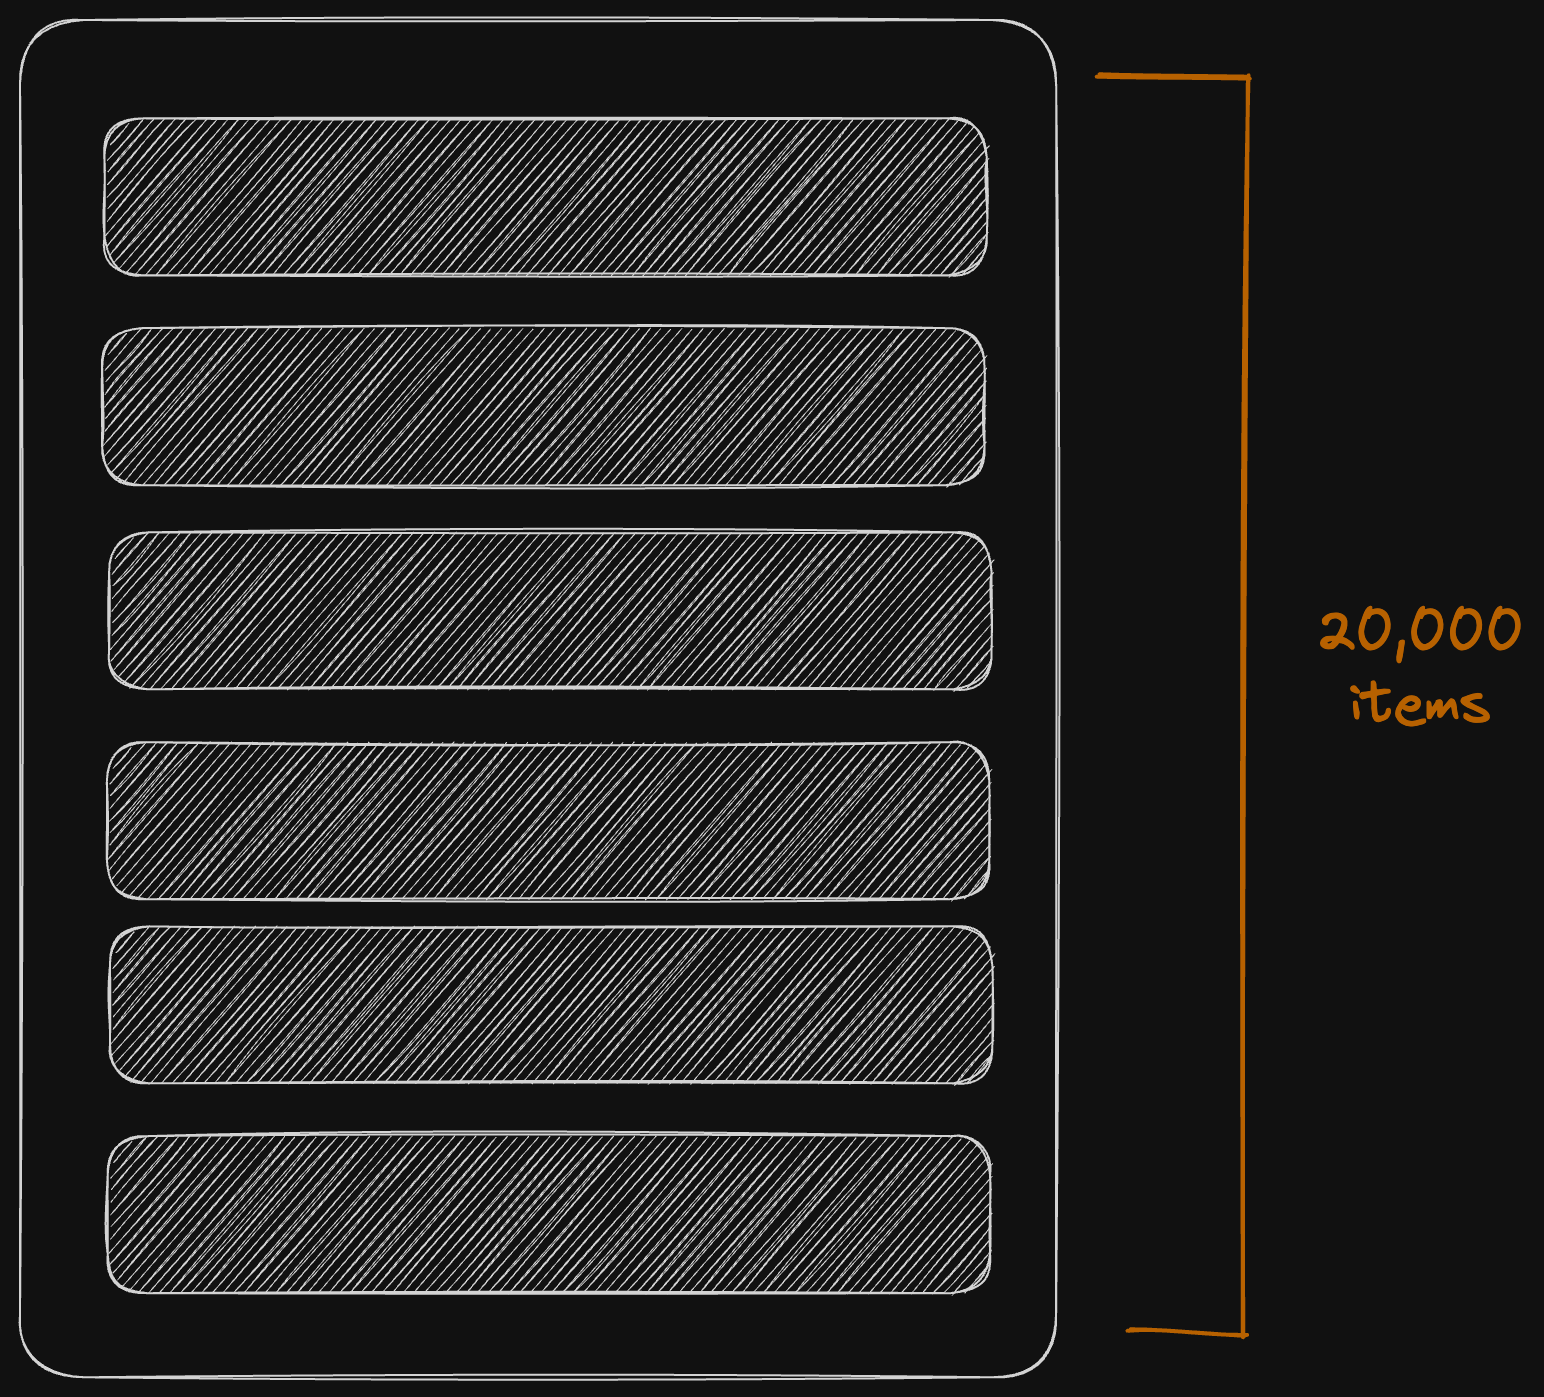
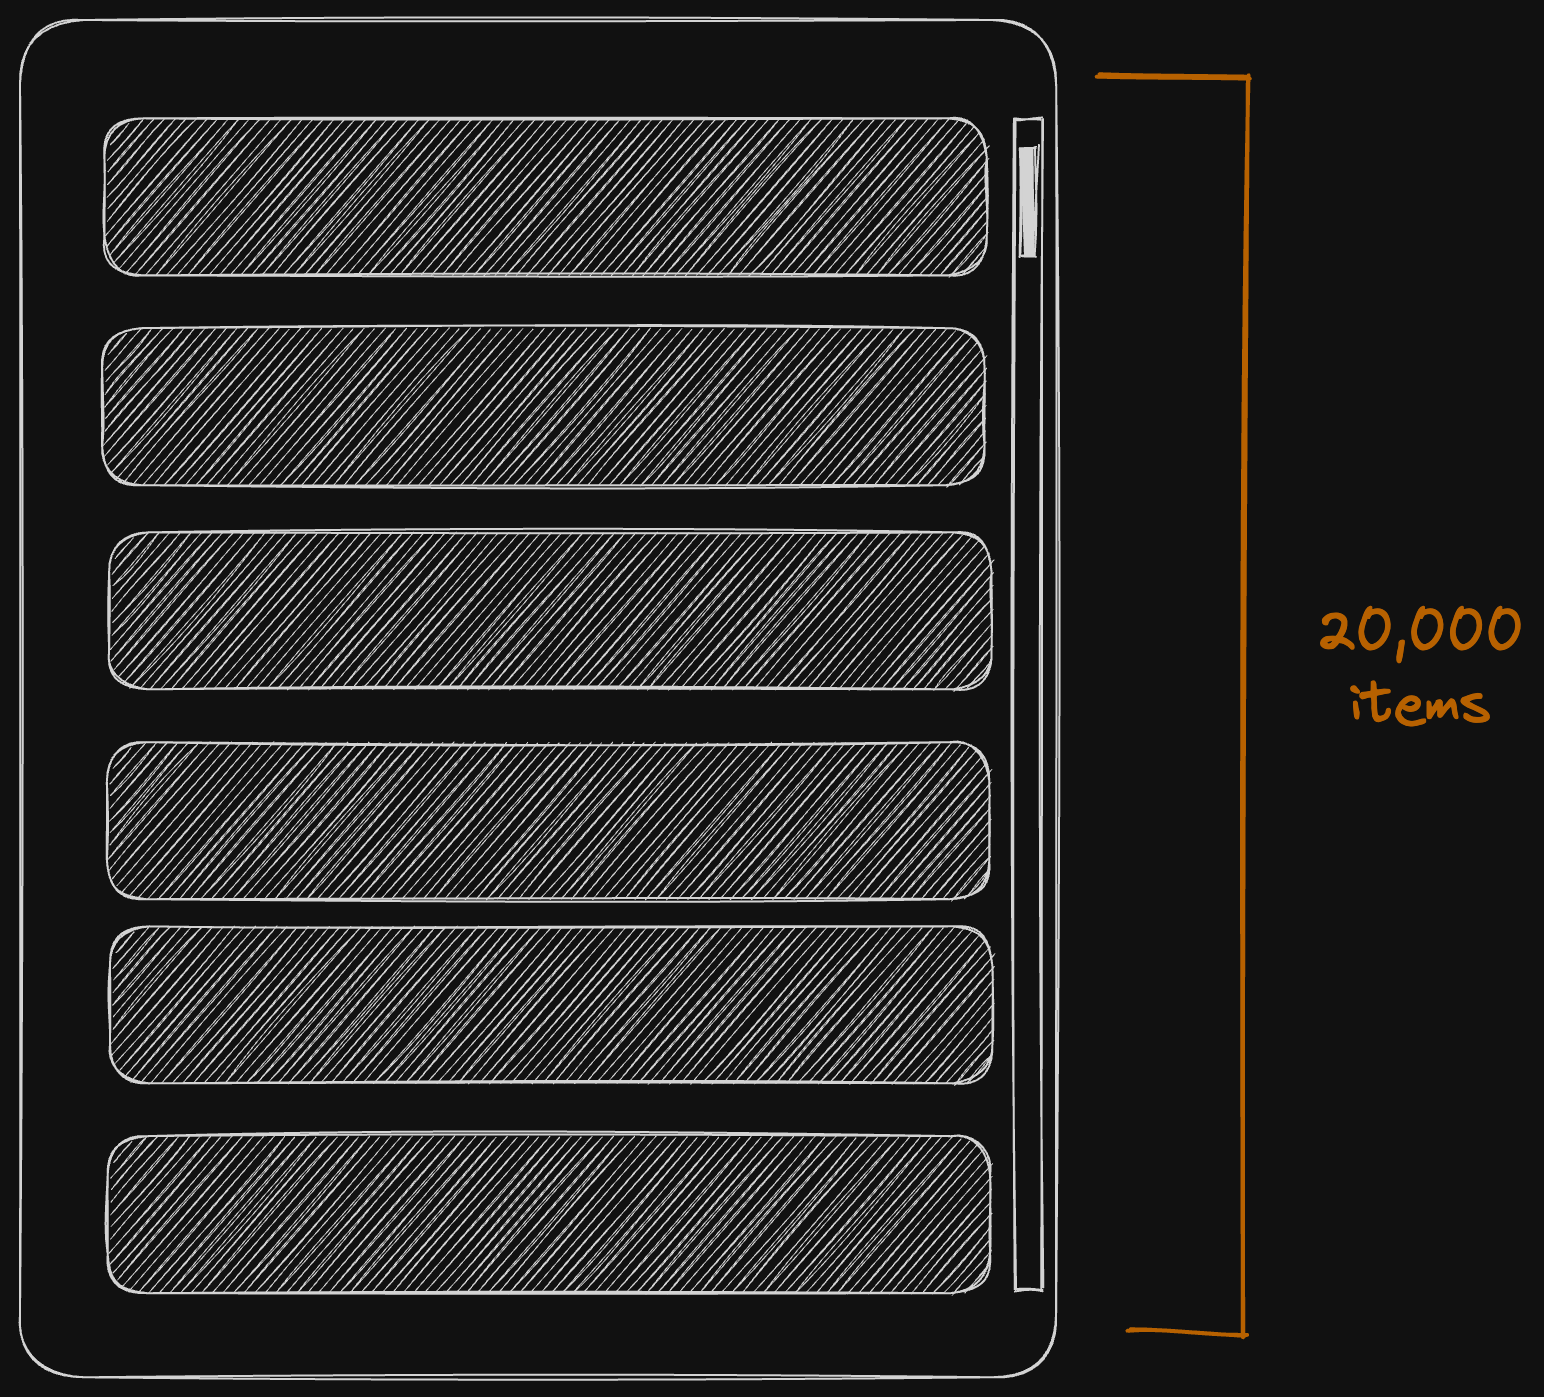
Updates

Changed region(s): [[0.6528, 0.0923, 0.6839, 0.9234]]

diff --git a/talks/slides-markdown/optimizing-angular-apps-like-a-pro/main.md b/talks/slides-markdown/optimizing-angular-apps-like-a-pro/main.md
@@ -395,16 +395,35 @@
 
 ;VS;
 
+##### There is a lot being handled by the DOM
+
+![lots-of-comps](assets/images/ng-perf/lots-of-comps.png) <!-- .element: style="height: 500px; object-fit: contain;" -->
+
+;VS;
+
 ![vscroll2](assets/images/ng-perf/v-scroll-2.png) <!-- .element: style="height: 650px; object-fit: contain;" -->
+
+;VS;
+
+## Can we do better?
+
+;VS;
+
+# Virtual Scroll
+
+;VS;
+
+![vscroll6](assets/images/ng-perf/v-scroll-6.png) <!-- .element: style="height: 650px; object-fit: contain;" -->
+
+
+;VS;
+
+![vscroll4](assets/images/ng-perf/v-scroll-4.png) <!-- .element: style="height: 500px; object-fit: contain;" -->
 
 ;VS;
 
 ![vscroll3](assets/images/ng-perf/v-scroll-3.png) <!-- .element: style="height: 500px; object-fit: contain;" -->
 ###### Profiled using [Angular DevTools](https://chrome.google.com/webstore/detail/angular-devtools/ienfalfjdbdpebioblfackkekamfmbnh)
-
-;VS;
-
-![vscroll4](assets/images/ng-perf/v-scroll-4.png) <!-- .element: style="height: 500px; object-fit: contain;" -->
 
 ;VS;
 
@@ -421,11 +440,13 @@ Notes:
 
 ## All of this...basically...
 
-![too-fast](https://media4.giphy.com/media/Gpu3skdN58ApO/giphy.gif?cid=ecf05e475671sc3siwhg3kf9t3fa9ke1rfmtof1dsw7slvao&ep=v1_gifs_search&rid=giphy.gif&ct=g) <!-- .element: class="fragment" style="height: 500px; object-fit: contain;" -->
+![too-fast](https://media4.giphy.com/media/Gpu3skdN58ApO/giphy.gif?cid=ecf05e475671sc3siwhg3kf9t3fa9ke1rfmtof1dsw7slvao&ep=v1_gifs_search&rid=giphy.gif&ct=g) <!-- .element: class="fragment" style="height: 500px; object-fit: contain;" data-fragment-index="1" -->
+
+##### Makes your app FAST <!-- .element: class="fragment" data-fragment-index="1" -->
 
 ;HS;
 
-# Shameless Promotion
+# Shameless Plug
 
 ![Angular Cookbook](assets/images/ng-cb-w-stats.png) <!-- .element: style="height: 500px;" class="fragment" -->
 

diff --git a/talks/slides-markdown/optimizing-angular-apps-like-a-pro/hook.md b/talks/slides-markdown/optimizing-angular-apps-like-a-pro/hook.md
@@ -1,5 +1,5 @@
 ### Imagine Managing an app with 80+ components
-![80 projects](assets/images/angular-perf-opt/components.png) <!-- .element: style="height: 500px;" -->
+![80 projects](assets/images/ng-perf/components.png) <!-- .element: style="height: 500px;" -->
 
 Notes:
 

diff --git a/talks/profiles/santosh.md b/talks/profiles/santosh.md
@@ -1,4 +1,4 @@
-### Co-Author
+### Co-Speaker
 
 <div class="introduction">
   <div class="introduction__left">
